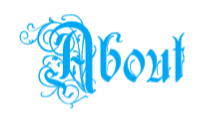
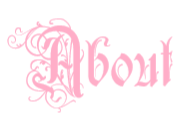
color scheme change

diff --git a/index.js b/index.js
@@ -15,7 +15,7 @@ document.addEventListener("DOMContentLoaded", () => {
         window.scrollTo(0, 0);
         h1.style.backgroundImage = "url(./resources/watercolor.png)";
         h1.style.height = "120px";
-        h1.style.width = "337px";
+        h1.style.width = "321px";
         main.innerHTML = "";
         const reload = document.createElement("button");
         reload.className = "reload";
@@ -35,7 +35,7 @@ document.addEventListener("DOMContentLoaded", () => {
         window.scrollTo(0, 0);
         h1.style.backgroundImage = "url(./resources/pen&ink.png)";
         h1.style.height = "120px";
-        h1.style.width = "387px";
+        h1.style.width = "366px";
         main.innerHTML = "";
         const reload = document.createElement("button");
         reload.className = "reload";
@@ -55,7 +55,7 @@ document.addEventListener("DOMContentLoaded", () => {
         window.scrollTo(0, 0);
         h1.style.backgroundImage = "url(./resources/sculpture.png)";
         h1.style.height = "120px";
-        h1.style.width = "298px"
+        h1.style.width = "281px"
         main.innerHTML = "";
         const reload = document.createElement("button");
         reload.className = "reload";
@@ -75,7 +75,7 @@ document.addEventListener("DOMContentLoaded", () => {
         window.scrollTo(0, 0);
         h1.style.backgroundImage = "url(./resources/mixed_media.png)";
         h1.style.height = "120px";
-        h1.style.width = "446px";
+        h1.style.width = "427px";
         main.innerHTML = "";
         const reload = document.createElement("button");
         reload.className = "reload";
@@ -95,7 +95,7 @@ document.addEventListener("DOMContentLoaded", () => {
         window.scrollTo(0, 0);
         h1.style.backgroundImage = "url(./resources/digital.png)";
         h1.style.height = "120px";
-        h1.style.width = "262px";
+        h1.style.width = "236px";
         main.innerHTML = "";
         const reload = document.createElement("button");
         reload.className = "reload";
@@ -115,7 +115,7 @@ document.addEventListener("DOMContentLoaded", () => {
         window.scrollTo(0, 0);
         h1.style.backgroundImage = "url(./resources/about.png)";
         h1.style.height = "120px";
-        h1.style.width = "202px";
+        h1.style.width = "190px";
         main.innerHTML = "";
         const reload = document.createElement("button");
         reload.className = "reload";

diff --git a/index.css b/index.css
@@ -7,8 +7,8 @@ body {
 }
 
 h1 {
-    height: 179px;
-    width: 607px;
+    height: 150px;
+    width: 584px;
     background-image: url("./resources/header.png");
 }
 
@@ -23,36 +23,36 @@ h1 {
 
 .watercolor {
     height: 120px;
-    width: 337px;
+    width: 321px;
     background-image: url("./resources/watercolor.png");
 }
 
 .penAndInk {
     height: 120px;
-    width: 387px;
+    width: 366px;
     background-image: url("./resources/pen&ink.png");
 }
 
 .sculpture {
     height: 120px;
-    width: 298px;
+    width: 281px;
     background-image: url("./resources/sculpture.png");
 }
 
 .mixedMedia {
     height: 120px;
-    width: 446px;
+    width: 427px;
     background-image: url("./resources/mixed_media.png");
 }
 
 .digital {
     height: 120px;
-    width: 262px;
+    width: 236px;
     background-image: url("./resources/digital.png");
 }
 
 .about {
     height: 120px;
-    width: 202px;
+    width: 190px;
     background-image: url("./resources/about.png");
 }
